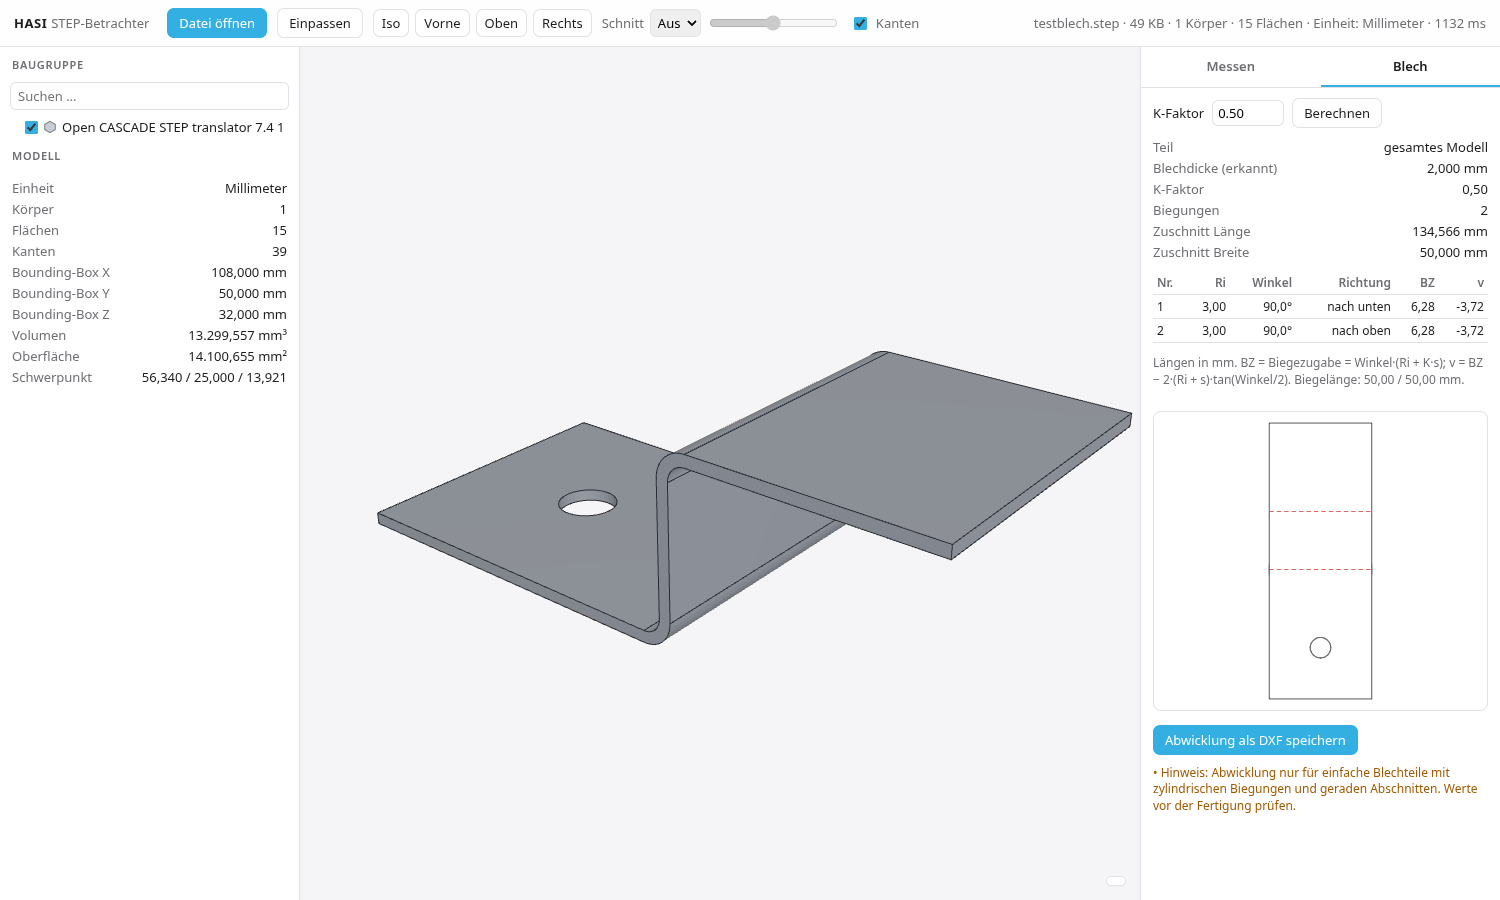
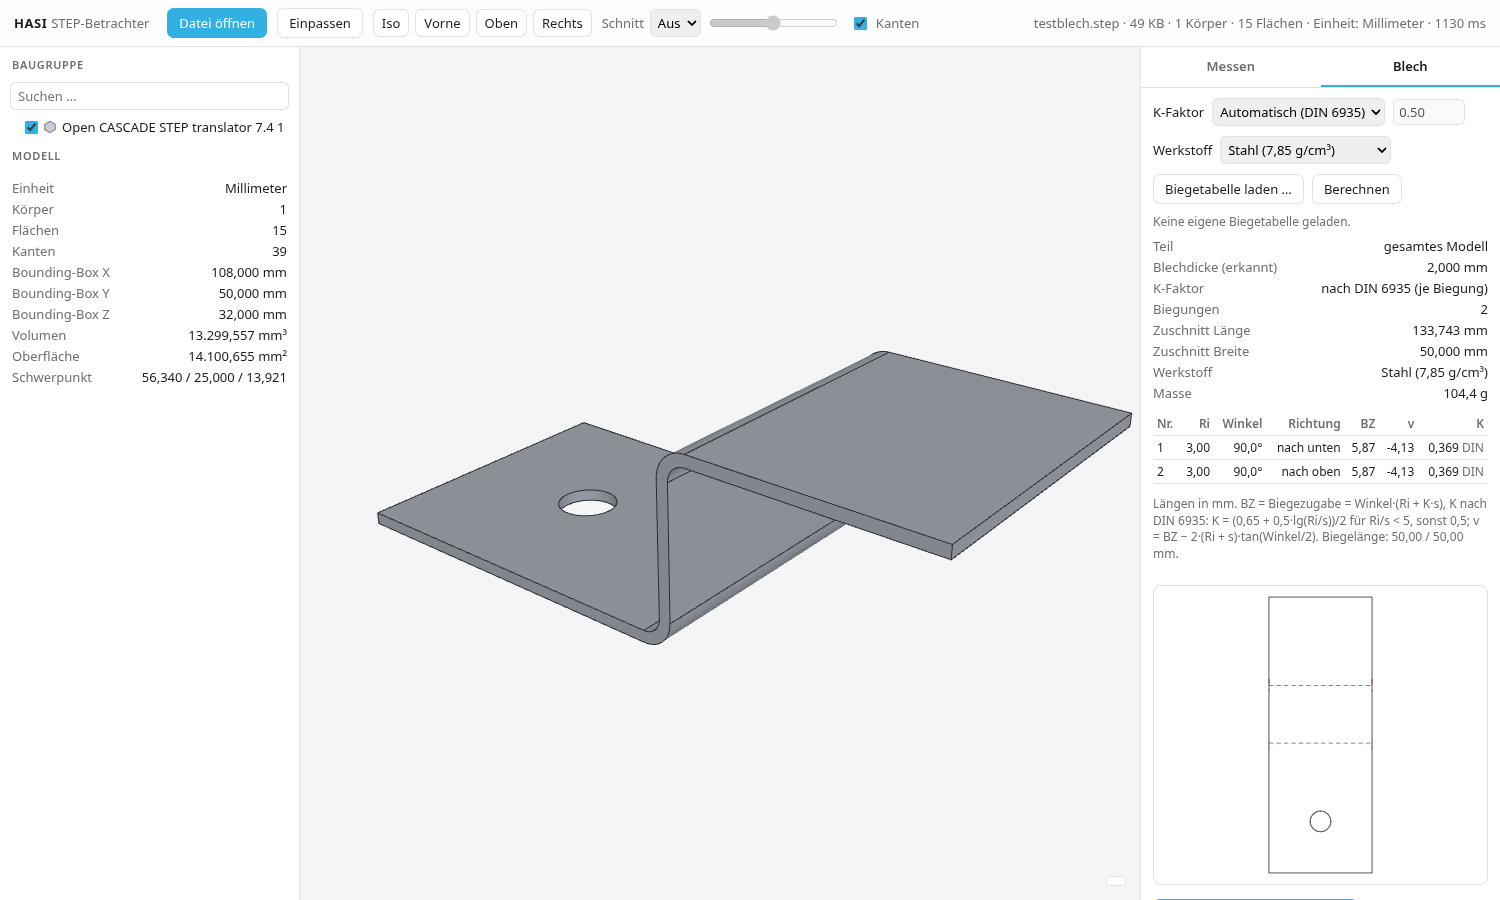
K-Faktor nach DIN 6935, Werkstoffauswahl und CSV-Biegetabelle

diff --git a/src/main.js b/src/main.js
@@ -198,14 +198,26 @@ async function select(s){if(sels.length>=2)clearSel();const clean={k:s.k,id:s.id
 document.querySelectorAll('.tab').forEach(t=>t.onclick=()=>{document.querySelectorAll('.tab').forEach(x=>x.classList.toggle('on',x===t));
   $('tab-messen').hidden=t.dataset.tab!=='messen';$('tab-blech').hidden=t.dataset.tab!=='blech';if(t.dataset.tab==='blech'&&data&&!sheetCache)calcSheet()});
 let sheetCache=null;$('calcSheet').onclick=()=>calcSheet();
+// K-Faktor-Modus, Werkstoff, eigene Biegetabelle
+let biegetabelle=null;try{biegetabelle=JSON.parse(localStorage.getItem('biegetabelle')||'null')}catch{}
+function showCsv(){$('csvinfo').textContent=biegetabelle?`Eigene Biegetabelle aktiv: ${biegetabelle.name} (${biegetabelle.rows.length} Zeilen) – hat Vorrang.`:'Keine eigene Biegetabelle geladen.';$('csvClear').hidden=!biegetabelle}
+showCsv();
+$('kmode').onchange=()=>{$('kf').disabled=$('kmode').value!=='manuell';if(data)calcSheet()};
+$('mat2').onchange=()=>{$('mat').value=$('mat2').value;$('dens').value=$('mat2').value;showMass();if(sheetCache)calcSheet()};
+$('mat').addEventListener('change',()=>{if([...$('mat2').options].some(o=>o.value===$('mat').value))$('mat2').value=$('mat').value});
+$('csv').onchange=async e=>{const f=e.target.files[0];if(!f)return;try{const {parseBiegetabelle}=await import('./kfaktor.js');const rows=parseBiegetabelle(await f.text());biegetabelle={name:f.name,rows};localStorage.setItem('biegetabelle',JSON.stringify(biegetabelle));showCsv();if(data)calcSheet()}catch(err){$('csvinfo').textContent=err.message}e.target.value=''};
+$('csvClear').onclick=()=>{biegetabelle=null;localStorage.removeItem('biegetabelle');showCsv();if(data)calcSheet()};
+window.__setBiegetabelle=(name,rows)=>{biegetabelle={name,rows};showCsv()};
 async function calcSheet(){if(!data)return;const K=parseFloat(String($('kf').value).replace(',','.'));if(!(K>=0&&K<=1)){$('sheetwarn').textContent='K-Faktor muss zwischen 0 und 1 liegen.';return}
-  const r=await call('sheet',{K,inst:sheetSolid});sheetCache=r;window.__lastSheet=r;
+  const opts={modus:$('kmode').value,K,tabelle:biegetabelle?.rows||null};
+  const r=await call('sheet',{opts,inst:sheetSolid});sheetCache=r;window.__lastSheet=r;
   if(!r.ok){$('sheetinfo').innerHTML='';$('bends').innerHTML='';$('flatprev').innerHTML='';$('dxf').disabled=true;$('sheetwarn').textContent=r.msg;return}
-  const rows=[['Teil',sheetSolid==null?'gesamtes Modell':(nodeOfBody(sheetSolid)?.name||'Körper '+(sheetSolid+1))],['Blechdicke (erkannt)',r.t,'L'],['K-Faktor',nf(K,2)],['Biegungen',r.bends.length]];
+  const rows=[['Teil',sheetSolid==null?'gesamtes Modell':(nodeOfBody(sheetSolid)?.name||'Körper '+(sheetSolid+1))],['Blechdicke (erkannt)',r.t,'L'],['K-Faktor',r.modus==='din'?'nach DIN 6935 (je Biegung)':nf(K,2)],...(biegetabelle?[['Biegetabelle',biegetabelle.name]]:[]),['Biegungen',r.bends.length]];
   if(r.flat)rows.push(['Zuschnitt Länge',Math.max(...r.flat.size),'L'],['Zuschnitt Breite',Math.min(...r.flat.size),'L']);
+  try{const q=await call('props',{ids:[sheetSolid??0]});const d=parseFloat($('mat2').value);rows.push(['Werkstoff',$('mat2').selectedOptions[0].textContent],['Masse',q.volume/1000*d,'M'])}catch{}
   kv($('sheetinfo'),rows);
   const n2=v=>nf(v/U.mm,2);
-  $('bends').innerHTML=r.bends.length?`<table><tr><th>Nr.</th><th title="Innenradius">Ri</th><th>Winkel</th><th>Richtung</th><th title="Biegezugabe (neutrale Faser)">BZ</th><th title="Biegeverkürzung">v</th></tr>${r.bends.map(b=>`<tr><td>${b.nr}</td><td>${n2(b.ri)}</td><td>${nf(b.ang,1)}°</td><td>${b.dir}</td><td>${n2(b.ba)}</td><td>${n2(b.v)}</td></tr>`).join('')}</table><p class="hint">Längen in ${U.sym}. BZ = Biegezugabe = Winkel·(Ri + K·s); v = BZ − 2·(Ri + s)·tan(Winkel/2). Biegelänge: ${r.bends.map(b=>n2(b.len)).join(' / ')} ${U.sym}.</p>`:'<p class="hint">Keine zylindrischen Biegungen gefunden.</p>';
+  $('bends').innerHTML=r.bends.length?`<table><tr><th>Nr.</th><th title="Innenradius">Ri</th><th>Winkel</th><th>Richtung</th><th title="Biegezugabe (neutrale Faser)">BZ</th><th title="Biegeverkürzung">v</th><th title="K-Faktor und Quelle">K</th></tr>${r.bends.map(b=>`<tr><td>${b.nr}</td><td>${n2(b.ri)}</td><td>${nf(b.ang,1)}°</td><td>${b.dir}</td><td>${n2(b.ba)}</td><td>${n2(b.v)}</td><td title="${b.quelle}">${nf(b.K,3)}<span class="m"> ${b.quelle==='DIN 6935'?'DIN':b.quelle==='Tabelle'?'Tab.':'man.'}</span></td></tr>`).join('')}</table><p class="hint">Längen in ${U.sym}. BZ = Biegezugabe = Winkel·(Ri + K·s), K nach DIN 6935: K = (0,65 + 0,5·lg(Ri/s))/2 für Ri/s &lt; 5, sonst 0,5; v = BZ − 2·(Ri + s)·tan(Winkel/2). Biegelänge: ${r.bends.map(b=>n2(b.len)).join(' / ')} ${U.sym}.</p>`:'<p class="hint">Keine zylindrischen Biegungen gefunden.</p>';
   $('flatprev').innerHTML=r.flat?svg(r.flat):'';$('dxf').disabled=!r.flat;
   const warn=[...r.warn,'Hinweis: Abwicklung nur für einfache Blechteile mit zylindrischen Biegungen und geraden Abschnitten. Werte vor der Fertigung prüfen.'];$('sheetwarn').innerHTML=warn.map(w=>'• '+w).join('<br>');return r}
 function svg(f){const pad=Math.max(...f.size)*0.04,w=f.size[0]+2*pad,h=f.size[1]+2*pad;const tr=p=>`${(p[0]-f.min[0]+pad).toFixed(3)},${(f.max[1]-p[1]+pad).toFixed(3)}`;const sw=Math.max(w,h)/400;

diff --git a/src/brep.js b/src/brep.js
@@ -1,3 +1,4 @@
+import {biegung} from './kfaktor.js';
 // B-Rep-Kern: Einlesen, Topologie, Messen, Blech. Läuft im Worker (Browser) und in Node (Tests).
 // Alle Längen intern in mm (OCCT rechnet STEP-Dateien beim Import in mm um).
 const V = {
@@ -198,7 +199,7 @@ export function createBrep(oc){
     return {volume:q.volume,area:q.area,centroid:cx,bbox:isFinite(q.bbox.min[0])?q.bbox:M.bbox(M.shape),solids:M.inst.length,unique:M.uniq.length,faces:M.inst.reduce((s,I)=>s+M.uniq[I.u].faces.length,0),edges:M.inst.reduce((s,I)=>s+M.uniq[I.u].edges.length,0)}};
   // ---------- Blech ----------
   const coaxial=(A,B)=>{if(Math.abs(V.dot(A.d,B.d))<1-1e-6)return false;const w=V.sub(B.c,A.c);return V.len(V.sub(w,V.mul(A.d,V.dot(w,A.d))))<1e-3};
-  M.sheet=(K=0.5,inst=null)=>{if(inst==null){if(M.inst.length!==1)return {ok:false,msg:'Mehrere Körper: Bitte im Baum ein einzelnes Teil wählen (Rechtsklick → Blech-Abwicklung).'};inst=0}
+  M.sheet=(opts=0.5,inst=null)=>{if(typeof opts==='number')opts={modus:'manuell',K:opts};const K=opts.K??0.5;if(inst==null){if(M.inst.length!==1)return {ok:false,msg:'Mehrere Körper: Bitte im Baum ein einzelnes Teil wählen (Rechtsklick → Blech-Abwicklung).'};inst=0}
     const UU=M.uniq[M.inst[inst].u];M.faces=UU.faces;M.edges=UU.edges;const solid=null;const inS=()=>true;
     const cyl=M.faces.map((f,i)=>[f,i]).filter(([f])=>inS(f)&&f.cyl&&f.cyl.ang<Math.PI*1.999);
     const cand=new Map();const add=(t,w)=>{const k=t.toFixed(3);cand.set(k,(cand.get(k)||0)+w)};
@@ -207,7 +208,7 @@ export function createBrep(oc){
     for(let i=0;i<pl.length;i++)for(let j=i+1;j<pl.length;j++){const A=pl[i][0].plane,B=pl[j][0].plane;if(V.dot(A.n,B.n)<-1+1e-6){const d=Math.abs(V.dot(V.sub(B.o,A.o),A.n));if(d>1e-4)add(d,Math.min(pl[i][0].area,pl[j][0].area))}}
     if(!cand.size)return {ok:false,msg:'Keine Blechdicke erkennbar (keine parallelen Gegenflächen oder koaxialen Biegeflächen).'};
     const t=+[...cand.entries()].sort((a,b)=>b[1]-a[1])[0][0];
-    const res={ok:true,t,K,bends:[],warn:[]};
+    const res={ok:true,t,K,modus:opts.modus,bends:[],warn:[]};
     // Basis: größte ebene Fläche
     const base=pl.sort((a,b)=>b[0].area-a[0].area)[0];if(!base){res.warn.push('Keine ebene Basisfläche gefunden.');return res}
     // Kanten-Nachbarschaft
@@ -229,15 +230,16 @@ export function createBrep(oc){
           let t0=V.cross(d,r0);const phiOf=(p,tt)=>{const w=V.sub(p,C.c),wr=V.sub(w,V.mul(d,V.dot(w,d)));let f=Math.atan2(V.dot(wr,tt),V.dot(wr,r0));if(f<-1e-7)f+=2*Math.PI;return f};
           if(phiOf(G.mid,t0)>C.ang)t0=V.mul(t0,-1);
           const rin=C.r>t*0.999&&coaxialPartner(gi,t)?.r<C.r?C.r-t:C.r; // Innenradius
-          const rn=rin+K*t;const Q0=mF.f(q0),D2=norm2(mF.lin(d)),W2=norm2(mF.lin(t0));
+          const th=C.ang;const bz=biegung(rin,t,th,opts);if(bz.hinweis&&!res.warn.includes(bz.hinweis))res.warn.push(bz.hinweis);
+          const rn=bz.ba/th;const Q0=mF.f(q0),D2=norm2(mF.lin(d)),W2=norm2(mF.lin(t0));
           const mC={kind:'c',f:p=>{const ax=V.dot(V.sub(p,q0),d),ph=phiOf(p,t0);return [Q0[0]+ax*D2[0]+ph*rn*W2[0],Q0[1]+ax*D2[1]+ph*rn*W2[1]]},phiOf,t0,d,C,D2,W2,rn};
           maps.set(gi,mC);skin.add(gi);
           // Richtung: Achse auf der Seite der Flächennormale -> nach oben (zur Normalen)
           const side=V.dot(V.sub(C.c,q0),F.plane.n);
-          const th=C.ang;const ba=th*rn;const ossb=Math.tan(Math.min(th,Math.PI-1e-9)/2)*(rin+t);
+          const ba=bz.ba;
           const ends=e.pts;const mid=ends.map(p=>{const P2=mF.f(p);return [P2[0]+th*rn/2*W2[0],P2[1]+th*rn/2*W2[1]]});
           bendLines.push(mid);
-          res.bends.push({nr:res.bends.length+1,face:gi,ri:rin,ang:th*DEG,dir:side>0?'nach oben':'nach unten',len:V.len(V.sub(ends[1],ends[0])),ba,v:ba-2*ossb});
+          res.bends.push({nr:res.bends.length+1,face:gi,ri:rin,ang:th*DEG,dir:side>0?'nach oben':'nach unten',len:V.len(V.sub(ends[1],ends[0])),ba,v:bz.v,K:bz.K,quelle:bz.quelle});
           // weiter zur nächsten ebenen Fläche über die zweite Tangentenkante
           for(const [e2_,ei2] of lineEdgesOf(gi)){const hi=e2_.faces.find(x=>x!==gi);if(skin.has(hi)||ei2===ei)continue;const H=M.faces[hi];
             if(H.plane&&Math.abs(V.dot(e2_.line.d,d))>1-1e-6){const q1=e2_.line.p;const w1=V.sub(q1,C.c),r1=V.norm(V.sub(w1,V.mul(d,V.dot(w1,d))));

diff --git a/src/kfaktor.js b/src/kfaktor.js
@@ -1,0 +1,43 @@
+// K-Faktor und Biegetabellen.
+// Quelle der Formel: DIN 6935:2011-10 „Kaltbiegen von Flacherzeugnissen aus Stahl“, Abschnitt 4 (Ausgleichswert v)
+// mit dem Korrekturfaktor k = 0,65 + 0,5 · lg(ri / s) für ri/s < 5 und k = 1 für ri/s ≥ 5.
+// Die neutrale Faser liegt bei ri + k · s/2. Der hier verwendete K-Faktor (Anteil der Dicke) ist daher K = k/2.
+// Ausgleichswert (Biegeverkürzung) für den Biegewinkel φ (= 180° − Öffnungswinkel β):
+//   v = φ · (ri + k·s/2) − 2 · (ri + s) · tan(φ/2)     (0° < φ ≤ 90°: tan(φ/2) ≤ 1; DIN rechnet bis β ≥ 0°)
+export function dinKFaktor(ri,s){
+  const q=ri/s;let k=q>=5?1:0.65+0.5*Math.log10(q);
+  const hinweis=q<0.65?'ri/s < 0,65: außerhalb des üblichen Gültigkeitsbereichs der DIN-Formel':null;
+  k=Math.min(1,Math.max(0,k));return {K:k/2,k,hinweis};
+}
+const num=x=>{if(x==null)return NaN;const t=String(x).trim().replace(/\s/g,'');if(!t)return NaN;return parseFloat(t.replace(',','.'))};
+/** CSV mit Kopfzeile, Spalten (beliebige Reihenfolge): s|Dicke, ri|Radius, Winkel (optional), v und/oder K. Trenner ; oder , oder Tab. */
+export function parseBiegetabelle(text){
+  const lines=text.replace(/^\uFEFF/,'').split(/\r?\n/).filter(l=>l.trim()&&!l.trim().startsWith('#'));
+  if(lines.length<2)throw new Error('Biegetabelle: zu wenige Zeilen (Kopfzeile + mindestens eine Datenzeile nötig).');
+  const sep=lines[0].includes(';')?';':lines[0].includes('\t')?'\t':',';
+  const head=lines[0].split(sep).map(h=>h.trim().toLowerCase().replace(/[\s"()]|mm|°/g,''));
+  const col=(...names)=>head.findIndex(h=>names.includes(h));
+  const cs=col('s','dicke','blechdicke','t'),cr=col('ri','r','radius','innenradius'),cw=col('winkel','w','biegewinkel','phi'),cv=col('v','ausgleichswert','biegeverkürzung','verkuerzung','verkürzung'),ck=col('k','kfaktor','k-faktor');
+  if(cs<0||cr<0)throw new Error('Biegetabelle: Spalten „s“ und „ri“ fehlen.');
+  if(cv<0&&ck<0)throw new Error('Biegetabelle: Spalte „v“ oder „K“ fehlt.');
+  const rows=lines.slice(1).map((l,i)=>{const c=l.split(sep);const r={s:num(c[cs]),ri:num(c[cr]),w:cw>=0?num(c[cw]):NaN,v:cv>=0?num(c[cv]):NaN,K:ck>=0?num(c[ck]):NaN};
+    if(!(r.s>0)||!(r.ri>=0)||(isNaN(r.v)&&isNaN(r.K)))throw new Error(`Biegetabelle: Zeile ${i+2} ist ungültig.`);return r});
+  return rows;
+}
+/** Passenden Tabelleneintrag suchen (s ±1 %, ri ±2 %, Winkel ±1° bzw. Zeilen ohne Winkel gelten für alle). */
+export function sucheTabelle(rows,s,ri,wDeg){
+  if(!rows||!rows.length)return null;
+  const ok=rows.filter(r=>Math.abs(r.s-s)<=Math.max(0.01,0.01*s)&&Math.abs(r.ri-ri)<=Math.max(0.01,0.02*ri));
+  const mitW=ok.filter(r=>!isNaN(r.w)&&Math.abs(r.w-wDeg)<=1).sort((a,b)=>Math.abs(a.w-wDeg)-Math.abs(b.w-wDeg));
+  return mitW[0]||ok.find(r=>isNaN(r.w))||null;
+}
+/** Biegezugabe BZ, Ausgleichswert v und K für eine Biegung. opts: {modus:'din'|'manuell', K, tabelle} */
+export function biegung(ri,s,phi,opts){
+  const ossb=Math.tan(Math.min(phi,Math.PI-1e-9)/2)*(ri+s);
+  const tab=sucheTabelle(opts.tabelle,s,ri,phi*180/Math.PI);
+  if(tab&&!isNaN(tab.v)){const ba=tab.v+2*ossb;return {ba,v:tab.v,K:(ba/phi-ri)/s,quelle:'Tabelle'}}
+  if(tab&&!isNaN(tab.K)){const ba=phi*(ri+tab.K*s);return {ba,v:ba-2*ossb,K:tab.K,quelle:'Tabelle'}}
+  let K,quelle,hinweis=null;
+  if(opts.modus==='din'){const d=dinKFaktor(ri,s);K=d.K;quelle='DIN 6935';hinweis=d.hinweis}else{K=opts.K;quelle='manuell'}
+  const ba=phi*(ri+K*s);return {ba,v:ba-2*ossb,K,quelle,hinweis};
+}

diff --git a/index.html b/index.html
@@ -26,7 +26,10 @@
 <div id="massinfo" class="kv"></div>
 </section>
 <section id="tab-blech" hidden>
-<div class="row"><span>K-Faktor</span><input id="kf" type="number" step="0.01" min="0" max="1" value="0.50" title="K-Faktor (Lage der neutralen Faser, 0 … 1)"><button class="btn" id="calcSheet">Berechnen</button></div>
+<div class="row"><span>K-Faktor</span><select id="kmode" title="Wie der K-Faktor bestimmt wird"><option value="din">Automatisch (DIN 6935)</option><option value="manuell">Manuell</option></select><input id="kf" type="number" step="0.01" min="0" max="1" value="0.50" disabled title="K-Faktor (Lage der neutralen Faser, 0 … 1)"></div>
+<div class="row"><span>Werkstoff</span><select id="mat2" title="Werkstoff (Dichte für die Masse)"><option value="7.85">Stahl (7,85 g/cm³)</option><option value="7.90">Edelstahl (7,90 g/cm³)</option><option value="2.70">Aluminium (2,70 g/cm³)</option><option value="8.96">Kupfer (8,96 g/cm³)</option></select></div>
+<div class="row"><label class="btn" title="Eigene Biegetabelle als CSV laden (Spalten: s; ri; Winkel; v oder K)">Biegetabelle laden …<input id="csv" type="file" accept=".csv,.txt" hidden></label><button class="btn" id="csvClear" title="Eigene Biegetabelle entfernen" hidden>Entfernen</button><button class="btn" id="calcSheet">Berechnen</button></div>
+<div id="csvinfo" class="hint"></div>
 <div id="sheetinfo" class="kv"></div>
 <div id="bends"></div>
 <div id="flatprev"></div>

diff --git a/src/worker.js b/src/worker.js
@@ -17,7 +17,7 @@ self.onmessage=async e=>{const {id,cmd,args}=e.data;
       r=B.load(bytes,args.name,hier,prog);r.times.namen=thier;prog('Volumen und Masse werden berechnet …');const tm=Date.now();r.model=B.inst.length>50?B.modelFast():B.model();r.times.modell=Date.now()-tm;r.hierOk=!!hier}
     else if(cmd==='props')r=B.solidProps(args.ids);
     else if(cmd==='measure')r=B.measure(args.sels);
-    else if(cmd==='sheet'){r=B.sheet(args.K,args.inst);if(r.flat)r.dxf=B.dxf(r.flat)}
+    else if(cmd==='sheet'){r=B.sheet(args.opts??args.K,args.inst);if(r.flat)r.dxf=B.dxf(r.flat)}
     const tr=[];if(cmd==='load')r.uniq.forEach(m=>tr.push(m.p.buffer,m.i.buffer,m.f.buffer));
     self.postMessage({id,ok:true,r},tr);
   }catch(err){

diff --git a/README.md b/README.md
@@ -37,3 +37,19 @@ Tests: `npm run testblech && node tools/test-brep.mjs` (Node), `npm run build &&
 Eigener schneller STEP-Strukturparser (`src/stephier.js`) liefert Namen und Hierarchie; diese wird strukturgleich auf den Baum aus opencascade.js gelegt. Gleiche Teile werden nur einmal aufbereitet (Instanzen teilen Geometrie).
 Baum mit Unterbaugruppen, Sichtbarkeit (vererbt), Suche, Kontextmenü und Zeilen-Icons, Auswahl Baum ↔ 3D.
 Tests: `node tools/test-baum.mjs`, Headless: `node tools/smoke-baugruppe.mjs` (Screenshots `docs/baum-*.png`).
+
+## K-Faktor und Biegetabelle
+
+Im Blech-Panel wird der K-Faktor standardmäßig automatisch je Biegung aus dem Verhältnis Innenradius zu Blechdicke berechnet.
+
+**Quelle der Formel:** DIN 6935:2011-10 „Kaltbiegen von Flacherzeugnissen aus Stahl“, Beiblatt 1 / Ausgleichswert:
+
+- Korrekturfaktor k = 0,65 + 0,5 · lg(ri/s) für ri/s < 5, sonst k = 1
+- neutrale Faser bei ri + k·s/2, also K = k/2 (K = 0,5 bei ri/s ≥ 5)
+- Ausgleichswert v = φ · (ri + K·s) − 2 · (ri + s) · tan(φ/2) (für φ ≤ 90°; Biegezugabe BZ = v + 2·(ri + s)·tan(φ/2))
+
+Umsetzung: `src/kfaktor.js`. Werkstoffe (Dichte für die Masse): Stahl 7,85, Edelstahl 7,90, Aluminium 2,70, Kupfer 8,96 g/cm³.
+
+**Eigene Biegetabelle (CSV):** Spalten `s;ri;Winkel;v` oder `s;ri;Winkel;K` (Trennzeichen `;`, `,` oder Tab, Dezimalkomma erlaubt, Winkel optional). Passende Zeilen (s ±1 %, ri ±2 %, Winkel ±1°) haben Vorrang vor DIN 6935. Beispiel: `testdaten/biegetabelle-beispiel.csv` (Beispielwerte, keine Herstellerangaben).
+
+![Biegetabelle](docs/blech-biegetabelle.png)
